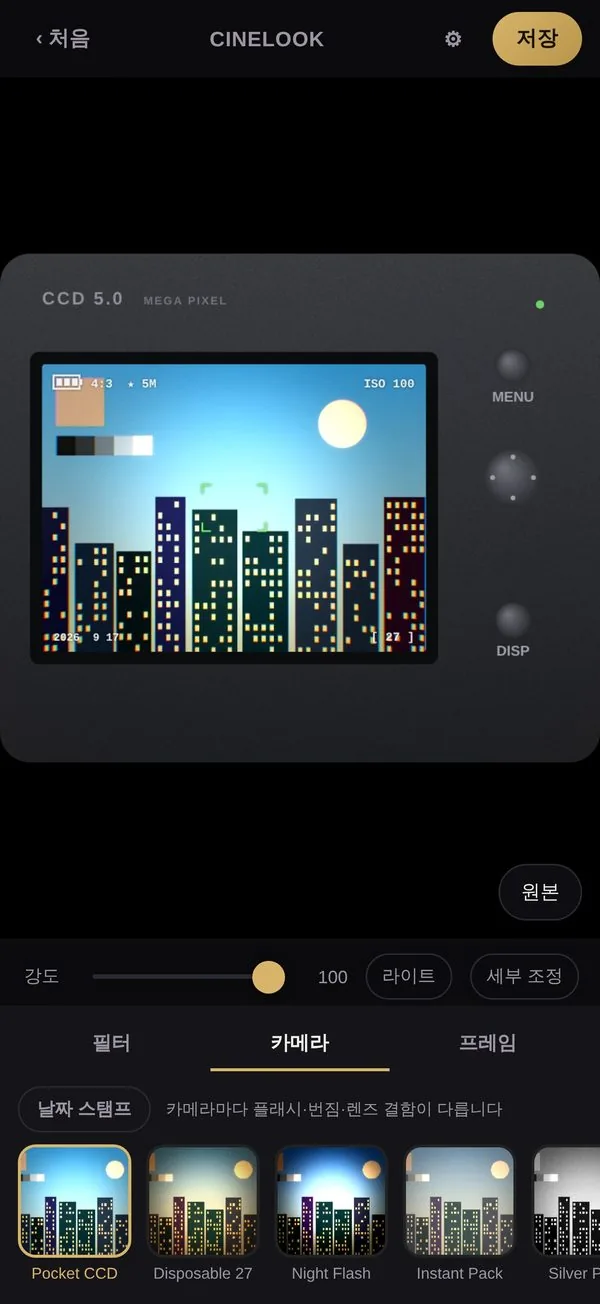
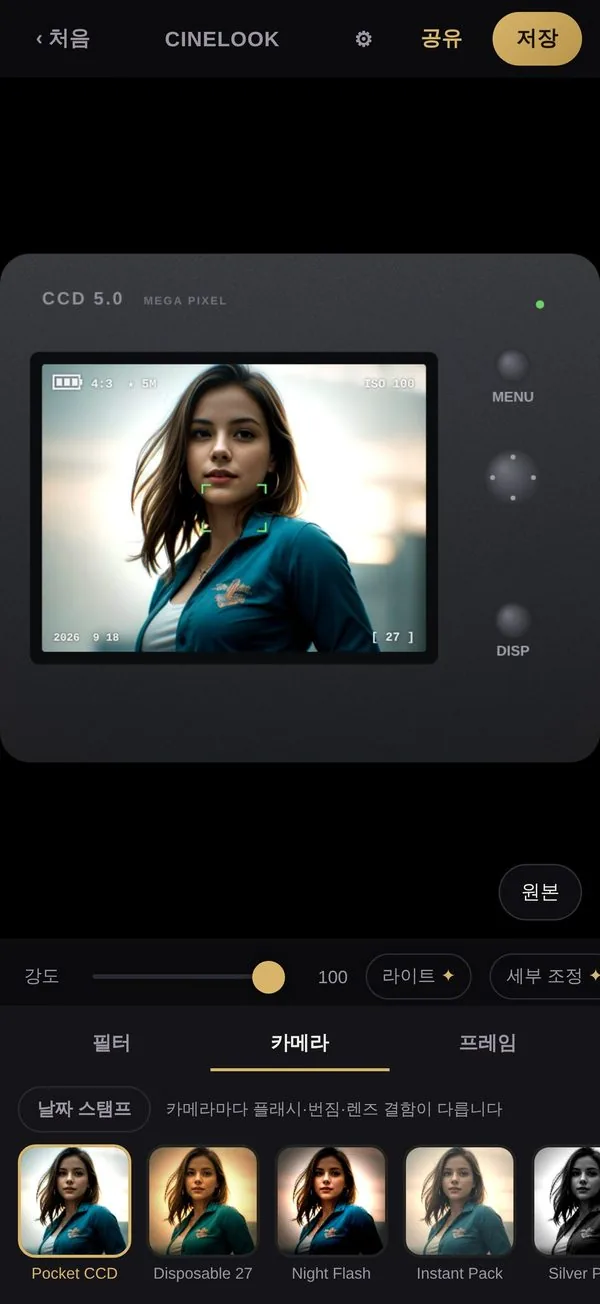
cinelook: 최신 배포본과 동기화 (모델 사진 · 공유 카드 · 테마)
NEXTGEN_CINEMATIC/site 가 갱신되어 그 내용을 그대로 옮긴다.
문안은 원본에서 한 글자도 고치지 않았고, 라우팅·이미지 포맷만 바꿨다.

- 앱 화면 사진 전부 교체 — 새 촬영본은 모델 사진을 쓴다(픽셀 아트 → 인물)
- 화면 섹션 3장 → 4장: 부스 · 프레임 · 공유 카드(s7) · UI 테마(s6).
  s4(필터 목록)는 원본에서 빠져 _to_delete 로 옮겼다
- CSS: .shots 3열 → 4열, 860px 이하 2열 규칙 추가 (원본과 동일)
- 요금제: 무료에 「스토리·피드 공유 카드 + 레시피 코드」,
  Pro 에 「UI 테마 3종」·「테마별 공유 카드 · 배지 끄기」 추가
- privacy: 공유 카드 캡션이 클립보드에 복사된다는 문단 추가(§3)
- terms: Pro 포함 범위에 UI 테마·공유 카드·AI 조명·세부 조정 명시(§2)
- support: FAQ 11 → 14문항 (공유 카드/레시피 코드 · 배지 · 테마)
- OG 이미지도 새 히어로 화면으로 다시 만들었다

원본에는 APP_ID 6813313386 이 들어가 있지만 아직 심사 중이라 링크를 열지
않았다. 출시되면 i18n.tsx 의 APP_ID 빈 문자열만 채우면 버튼이 살아난다.

Claude-Session: https://claude.ai/code/session_01GcxDg8HwpmhQNjcecpaQPK

diff --git a/app/(cinelook)/cinelook/HomeContent.tsx b/app/(cinelook)/cinelook/HomeContent.tsx
@@ -91,14 +91,29 @@ export default function HomeContent() {
       ),
     },
     {
-      n: 4,
-      alt: L('영화 필터 목록과 틸 & 오렌지 적용 화면', 'Movie filters with Teal & Orange applied'),
+      n: 7,
+      alt: L(
+        '카툰 테마의 공유 카드와 레시피 코드',
+        'A share card in the Cartoonic theme with its recipe code'
+      ),
       cap: L(
         <>
-          영화 필터 <b>30종</b>
+          공유 카드 + <b>레시피 코드</b>
         </>,
         <>
-          <b>Thirty</b> movie filters
+          Share cards with a <b>recipe code</b>
+        </>
+      ),
+    },
+    {
+      n: 6,
+      alt: L('레트로 테마가 적용된 홈 화면', 'Home screen in the Retro theme'),
+      cap: L(
+        <>
+          UI 테마 <b>4종</b>
+        </>,
+        <>
+          <b>Four</b> UI themes
         </>
       ),
     },
@@ -205,7 +220,7 @@ export default function HomeContent() {
                   height={1304}
                   alt={s.alt}
                   loading="lazy"
-                  sizes="(max-width: 600px) 300px, (max-width: 860px) 30vw, 330px"
+                  sizes="(max-width: 600px) 300px, (max-width: 860px) 46vw, 250px"
                 />
                 <figcaption>{s.cap}</figcaption>
               </figure>
@@ -234,6 +249,9 @@ export default function HomeContent() {
                 <li>{L('프레임 5종 · 4컷 스트립', '5 frames · booth strip')}</li>
                 <li>{L('촬영 · 불러오기 · 저장 무제한', 'Unlimited shooting, importing, saving')}</li>
                 <li>{L('워터마크 없음', 'No watermark')}</li>
+                <li>
+                  {L('스토리·피드 공유 카드 + 레시피 코드', 'Story & feed share cards + recipe codes')}
+                </li>
               </ul>
             </div>
             <div className="cl-plan cl-pro">
@@ -242,6 +260,15 @@ export default function HomeContent() {
               <ul>
                 <li>{L('필름카메라 8종 · 필터 30종 전부', 'All 8 cameras and 30 filters')}</li>
                 <li>{L('프레임 20종 · 레이아웃 4종 전부', 'All 20 frames and 4 layouts')}</li>
+                <li>
+                  {L(
+                    'UI 테마 3종 — 레트로 · 카툰 · 그래피티',
+                    '3 UI themes — Retro, Cartoonic, Graffiti'
+                  )}
+                </li>
+                <li>
+                  {L('테마별 공유 카드 · 배지 끄기', 'Matching share cards, badge optional')}
+                </li>
                 <li>{L('AI 입체 조명 · 역광', 'AI depth light and backlight')}</li>
                 <li>
                   {L(

diff --git a/app/(cinelook)/cinelook/support/SupportContent.tsx b/app/(cinelook)/cinelook/support/SupportContent.tsx
@@ -46,6 +46,30 @@ export default function SupportContent() {
       ),
     },
     {
+      q: L('공유 카드와 레시피 코드는 뭔가요?', 'What are share cards and recipe codes?'),
+      a: L(
+        '편집 화면 위의 [공유]를 누르면 사진이 스토리(9:16)·피드(4:5) 카드로 만들어집니다. 카드에 적힌 CL- 로 시작하는 레시피 코드를 친구가 홈 화면의 "# 레시피 코드"에 입력하면 같은 카메라·필터·프레임이 적용돼요. 공유할 때 코드와 해시태그가 클립보드에 복사되니 캡션에 붙여 넣기만 하면 됩니다.',
+        'Tap Share at the top of the editor to turn your photo into a story (9:16) or feed (4:5) card. Friends can enter the CL- recipe code on the card under “# Recipe Code” on the home screen to get the same camera, filter and frame. When you share, the code and hashtags are copied to your clipboard, ready to paste into your caption.'
+      ),
+    },
+    {
+      q: L(
+        '카드의 "Made with CineLook" 배지를 없앨 수 있나요?',
+        'Can I remove the “Made with CineLook” badge?'
+      ),
+      a: L(
+        '무료 버전의 공유 카드에는 작은 배지가 들어갑니다. CineLook Pro 에서는 공유 시트의 배지 버튼으로 끌 수 있어요. 앨범에 저장하는 사진에는 무료·Pro 모두 워터마크가 없습니다.',
+        'Share cards in the free version include a small badge; with CineLook Pro you can turn it off in the share sheet. Photos you save to your library never carry a watermark, free or Pro.'
+      ),
+    },
+    {
+      q: L('테마는 어떻게 바꾸나요?', 'How do I change the theme?'),
+      a: L(
+        '홈의 "🎨 테마" 또는 설정 › 테마에서 고릅니다. 스탠다드는 무료이고, 레트로·카툰·그래피티는 Pro 테마예요. Pro 테마도 시트 안에서 미리 입어볼 수 있습니다.',
+        'Use “🎨 Theme” on the home screen or Settings › Theme. Standard is free; Retro, Cartoonic and Graffiti are Pro themes you can try on right in the sheet.'
+      ),
+    },
+    {
       q: L('제 사진이 어딘가로 전송되나요?', 'Are my photos uploaded anywhere?'),
       a: L(
         '아니요. 필터·조명·프레임 처리는 전부 아이폰 안에서 이루어지고, 앱에는 네트워크 기능 자체가 없습니다. 저희를 포함해 누구도 사진에 접근할 수 없습니다.',

diff --git a/app/(cinelook)/cinelook/globals.css b/app/(cinelook)/cinelook/globals.css
@@ -117,7 +117,7 @@ section.cl-tight { padding-top: 10px; }
 .cl-card h3 { margin: 8px 0 8px; font-size: 20px; }
 .cl-card p { margin: 0; color: #b9b6c0; font-size: 15.5px; line-height: 1.65; }
 
-.cl-shots { display: grid; grid-template-columns: repeat(3, 1fr); gap: 26px; }
+.cl-shots { display: grid; grid-template-columns: repeat(4, 1fr); gap: 20px; }
 .cl-shot { margin: 0; }
 .cl-shot img { border-radius: 28px; border-width: 6px; box-shadow: 0 24px 60px rgba(0, 0, 0, 0.5); }
 .cl-shot figcaption { margin-top: 14px; text-align: center; color: var(--cl-muted); font-size: 16px; }
@@ -187,6 +187,7 @@ footer nav a:hover { color: var(--cl-text); }
   .cl-hero { padding-top: 40px; }
   .cl-hero-grid { grid-template-columns: 1fr; gap: 40px; }
   .cl-cards { grid-template-columns: 1fr 1fr; }
+  .cl-shots { grid-template-columns: 1fr 1fr; gap: 28px; }
   .cl-plans { grid-template-columns: 1fr; }
 }
 @media (max-width: 600px) {

diff --git a/app/(cinelook)/cinelook/terms/TermsContent.tsx b/app/(cinelook)/cinelook/terms/TermsContent.tsx
@@ -70,8 +70,8 @@ export default function TermsContent() {
         </li>
         <li>
           {L(
-            'Pro 에는 구매 시점의 유료 기능과, 이후 추가되는 템플릿이 포함됩니다.',
-            'Pro includes the paid features available at purchase and templates added afterwards.'
+            'Pro 에는 구매 시점의 유료 기능(필터·카메라·프레임·레이아웃 전부, UI 테마와 테마별 공유 카드, AI 조명, 세부 조정)과 이후 추가되는 템플릿이 포함됩니다.',
+            'Pro includes the paid features available at purchase — every filter, camera, frame and layout, the UI themes and their share-card styles, AI lighting and the fine-tune sliders — plus templates added afterwards.'
           )}
         </li>
         <li>

diff --git a/app/(cinelook)/cinelook/privacy/PrivacyContent.tsx b/app/(cinelook)/cinelook/privacy/PrivacyContent.tsx
@@ -76,6 +76,13 @@ export default function PrivacyContent() {
         )}
       </p>
 
+      <p>
+        {L(
+          '공유 카드를 공유할 때 캡션(룩 이름 · 레시피 코드 · 해시태그)을 기기 클립보드에 복사합니다. 레시피 코드는 선택한 필터·카메라·프레임 번호일 뿐, 사진이나 개인정보를 담지 않습니다.',
+          'When you share a card, a caption (look name, recipe code, hashtags) is copied to your device clipboard. A recipe code only encodes the chosen filter, camera and frame — it contains no photo or personal data.'
+        )}
+      </p>
+
       <h2>{L('4. 앱 내 구매', '4. In-app purchase')}</h2>
       <p>
         {L(

diff --git a/app/(cinelook)/cinelook/i18n.tsx b/app/(cinelook)/cinelook/i18n.tsx
@@ -27,6 +27,9 @@ export const BIZ = {
  * App Store — 출시 후 ASC 'App Apple ID'(숫자)를 넣는다.
  * 비어 있으면 버튼이 '출시 준비 중' 안내로 바뀐다.
  * ⚠ 국가 코드 없는 링크는 출시 직후 404 가 잦다 — 항상 kr/us 를 붙인다.
+ *
+ * 앱 레코드는 이미 만들어져 있고 ID 는 6813313386 이다. 다만 아직 심사 중이라
+ * 링크를 열어 두지 않는다 — 출시되면 아래 빈 문자열을 '6813313386' 으로 바꾸면 된다.
  */
 export const APP_ID = '';
 export const appStoreUrl = (lang: Lang) =>
